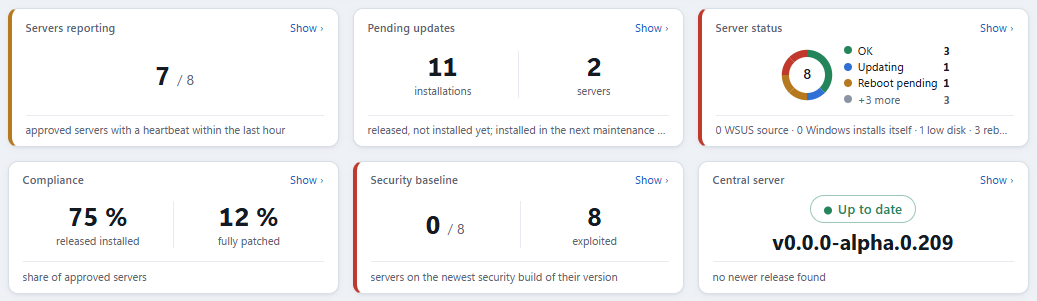
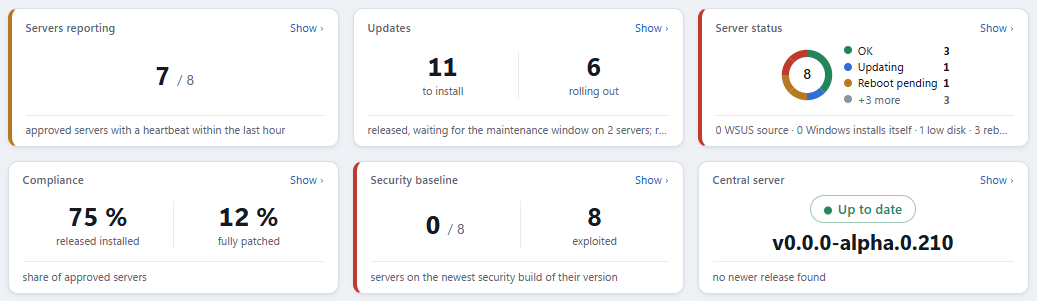
Overview: Deployment by ring counts only open updates and shows what waits; the Updates tile shows installations to do and rollouts on their way

diff --git a/tests/SUSyphos.Server.Tests/DashboardPageTests.cs b/tests/SUSyphos.Server.Tests/DashboardPageTests.cs
@@ -599,6 +599,26 @@ public sealed class UpdateDetailTests
     }
 
     [Fact]
+    public async Task DeploymentByRing_ShowsWhatWaitsForTheRing()
+    {
+        await using var scenario = await RolloutScenario.CreateAsync();
+        var pilot = await scenario.AddClientAsync("PILOT01", RingEntity.PilotId);
+        var test = await scenario.AddClientAsync("TEST01", RingEntity.TestId);
+        var update = RolloutScenario.Update("Security Updates");
+        await scenario.ReportAsync(pilot, update);
+        await scenario.ReportAsync(test, update);
+        await scenario.AdvanceAsync();
+        await scenario.InstallAsync(pilot, update.UpdateId, InstallResultCode.Succeeded);
+        using var browser = await LoginAsync(scenario, AdminRoles.Reader);
+
+        var overview = await GetHtmlAsync(browser, "/");
+
+        Assert.Contains("<span class=\"pill neutral\">Waiting for release</span>", overview, StringComparison.Ordinal);
+        Assert.Contains("1 waiting for release", overview, StringComparison.Ordinal);
+        Assert.Matches("tile-number\">1</span>\\s*(<span class=\"tile-caption\">)rolling out", overview);
+    }
+
+    [Fact]
     public async Task ServerList_ShowsTheServersThatAreNotFullyPatched()
     {
         await using var scenario = await RolloutScenario.CreateAsync();

diff --git a/src/SUSyphos.Server/Help/Topics/10-overview.md b/src/SUSyphos.Server/Help/Topics/10-overview.md
@@ -21,7 +21,7 @@ Each tile has a title, the values in the middle and one line of context at the b
 | Tile | What it shows |
 |---|---|
 | **Servers reporting** | Approved servers that sent a heartbeat within the last hour, of all approved servers. A server that stays silent longer is "Offline". |
-| **Pending updates** | Released installations not done yet (server × update) and the servers that still miss at least one update released for their ring; they install in the next maintenance window of each server. |
+| **Updates** | **To install**: released installations not done yet (server × update); each server installs them in its next maintenance window (the footer says on how many servers). **Rolling out**: updates whose rollout is running and that are still missing somewhere, also those waiting for a later ring. **Show ›** opens the update list. |
 | **Server status** | Approved servers by status as a donut (OK, Updating, Reboot pending, Warning, Failed, Offline); each entry of the legend opens the server list filtered to that status. Failed means the last installation or a pre-flight check failed (for example not enough disk space or a stopped Windows Update service). The footer counts the warnings: update source WSUS, Windows installs updates on its own (Automatic Updates), low disk space, reboot pending. |
 | **Compliance** | Released installed (patch compliance): share of approved servers that have every update released for their ring installed. Fully patched: share whose update search reports no missing update at all, also none the rings still hold back. The difference is what the rings deliberately hold back. **Show ›** opens the servers that are not fully patched. |
 | **Security baseline** | Servers on the newest security build of their Windows version, of all servers it can be checked for, and how many have a vulnerability Microsoft knows to be exploited (red edge then); **Show ›** opens [Operating systems](help/operating-systems). |
@@ -34,8 +34,8 @@ One row per ring, in rollout order. The ring tag (number and name, outlined in t
 
 - **Servers**: approved servers in the ring.
 - **Active updates**: updates whose rollout currently includes this ring.
-- **Status (server × update)**: one bar segment per installation state, counting each server once per active update: successful (green), pending (blue, released and not installed yet), queued (amber, not released to this ring yet) and failed (red).
-- **State**: *Healthy* (nothing open), *Rolling out* (installations pending), *Failures* (at least one failed installation), *Awaiting approval* (a release gate waits for a person) or *Alarm* (the rollout stopped before this ring because a threshold was exceeded).
+- **Status (server × update)**: one bar segment per installation state, counting each server once per update that is still open somewhere (updates installed everywhere drop out, so the bar shows the work left), with a line below it naming what is open ("3 to install, 7 waiting for release"): successful (green), pending (blue, released and not installed yet), queued (amber, not released to this ring yet) and failed (red).
+- **State**: *Healthy* (nothing open), *Waiting for release* (updates wait until the rollout reaches this ring), *Rolling out* (installations pending), *Failures* (at least one failed installation), *Awaiting approval* (a release gate waits for a person) or *Alarm* (the rollout stopped before this ring because a threshold was exceeded).
 
 ## Needs attention {#attention}
 

diff --git a/CHANGELOG.md b/CHANGELOG.md
@@ -10,6 +10,8 @@ All notable changes are documented here. Format based on [Keep a Changelog](http
 - Update page, tab Servers: operating system, groups, when and by whom the update was installed, the result, a ⋯ menu per server (Install now…, Hold for this server…, Uninstall…) and grouping by ring, status, operating system or group; the tab names the work left ("3 to do", "1 failed"), and "Show ›" on "All servers" and "Show all servers ›" below "Progress by ring" open it.
 - Recent activity on the server page shows the kind of each entry as a coloured pill, like the tasks.
 - Pills with a detail (restart time, error code, who started an installation) show it behind an "i" segment inside the pill: hovering opens a small card that floats above the table, a click keeps it open; rows keep their height and nothing breaks between date and time.
+- The overview tile "Pending updates" is now "Updates": the released installations still to do and the number of rollouts still on their way through the rings.
+- Deployment by ring on the overview counts only updates that are still open somewhere: before, updates installed everywhere filled the bar green and hid the updates waiting for the ring. A line below the bar names what is open ("3 to install, 7 waiting for release"), and a ring with only waiting updates shows "Waiting for release" instead of "Healthy".
 - The text of pills, category tags and tab counts sits in their optical middle (Segoe UI sat about 1.5 px low).
 - Category tags for the classification of updates (update list and both histories on the server page: security and critical updates, definition updates and drivers in their own colour, the rest grey) and for the role of an account.
 - Server list: the view "Not fully patched" lists the servers whose last update search still reports a missing update, released or not, and the Updates column shows how many are missing in all; the "Show ›" of the Compliance tile opens this view.
